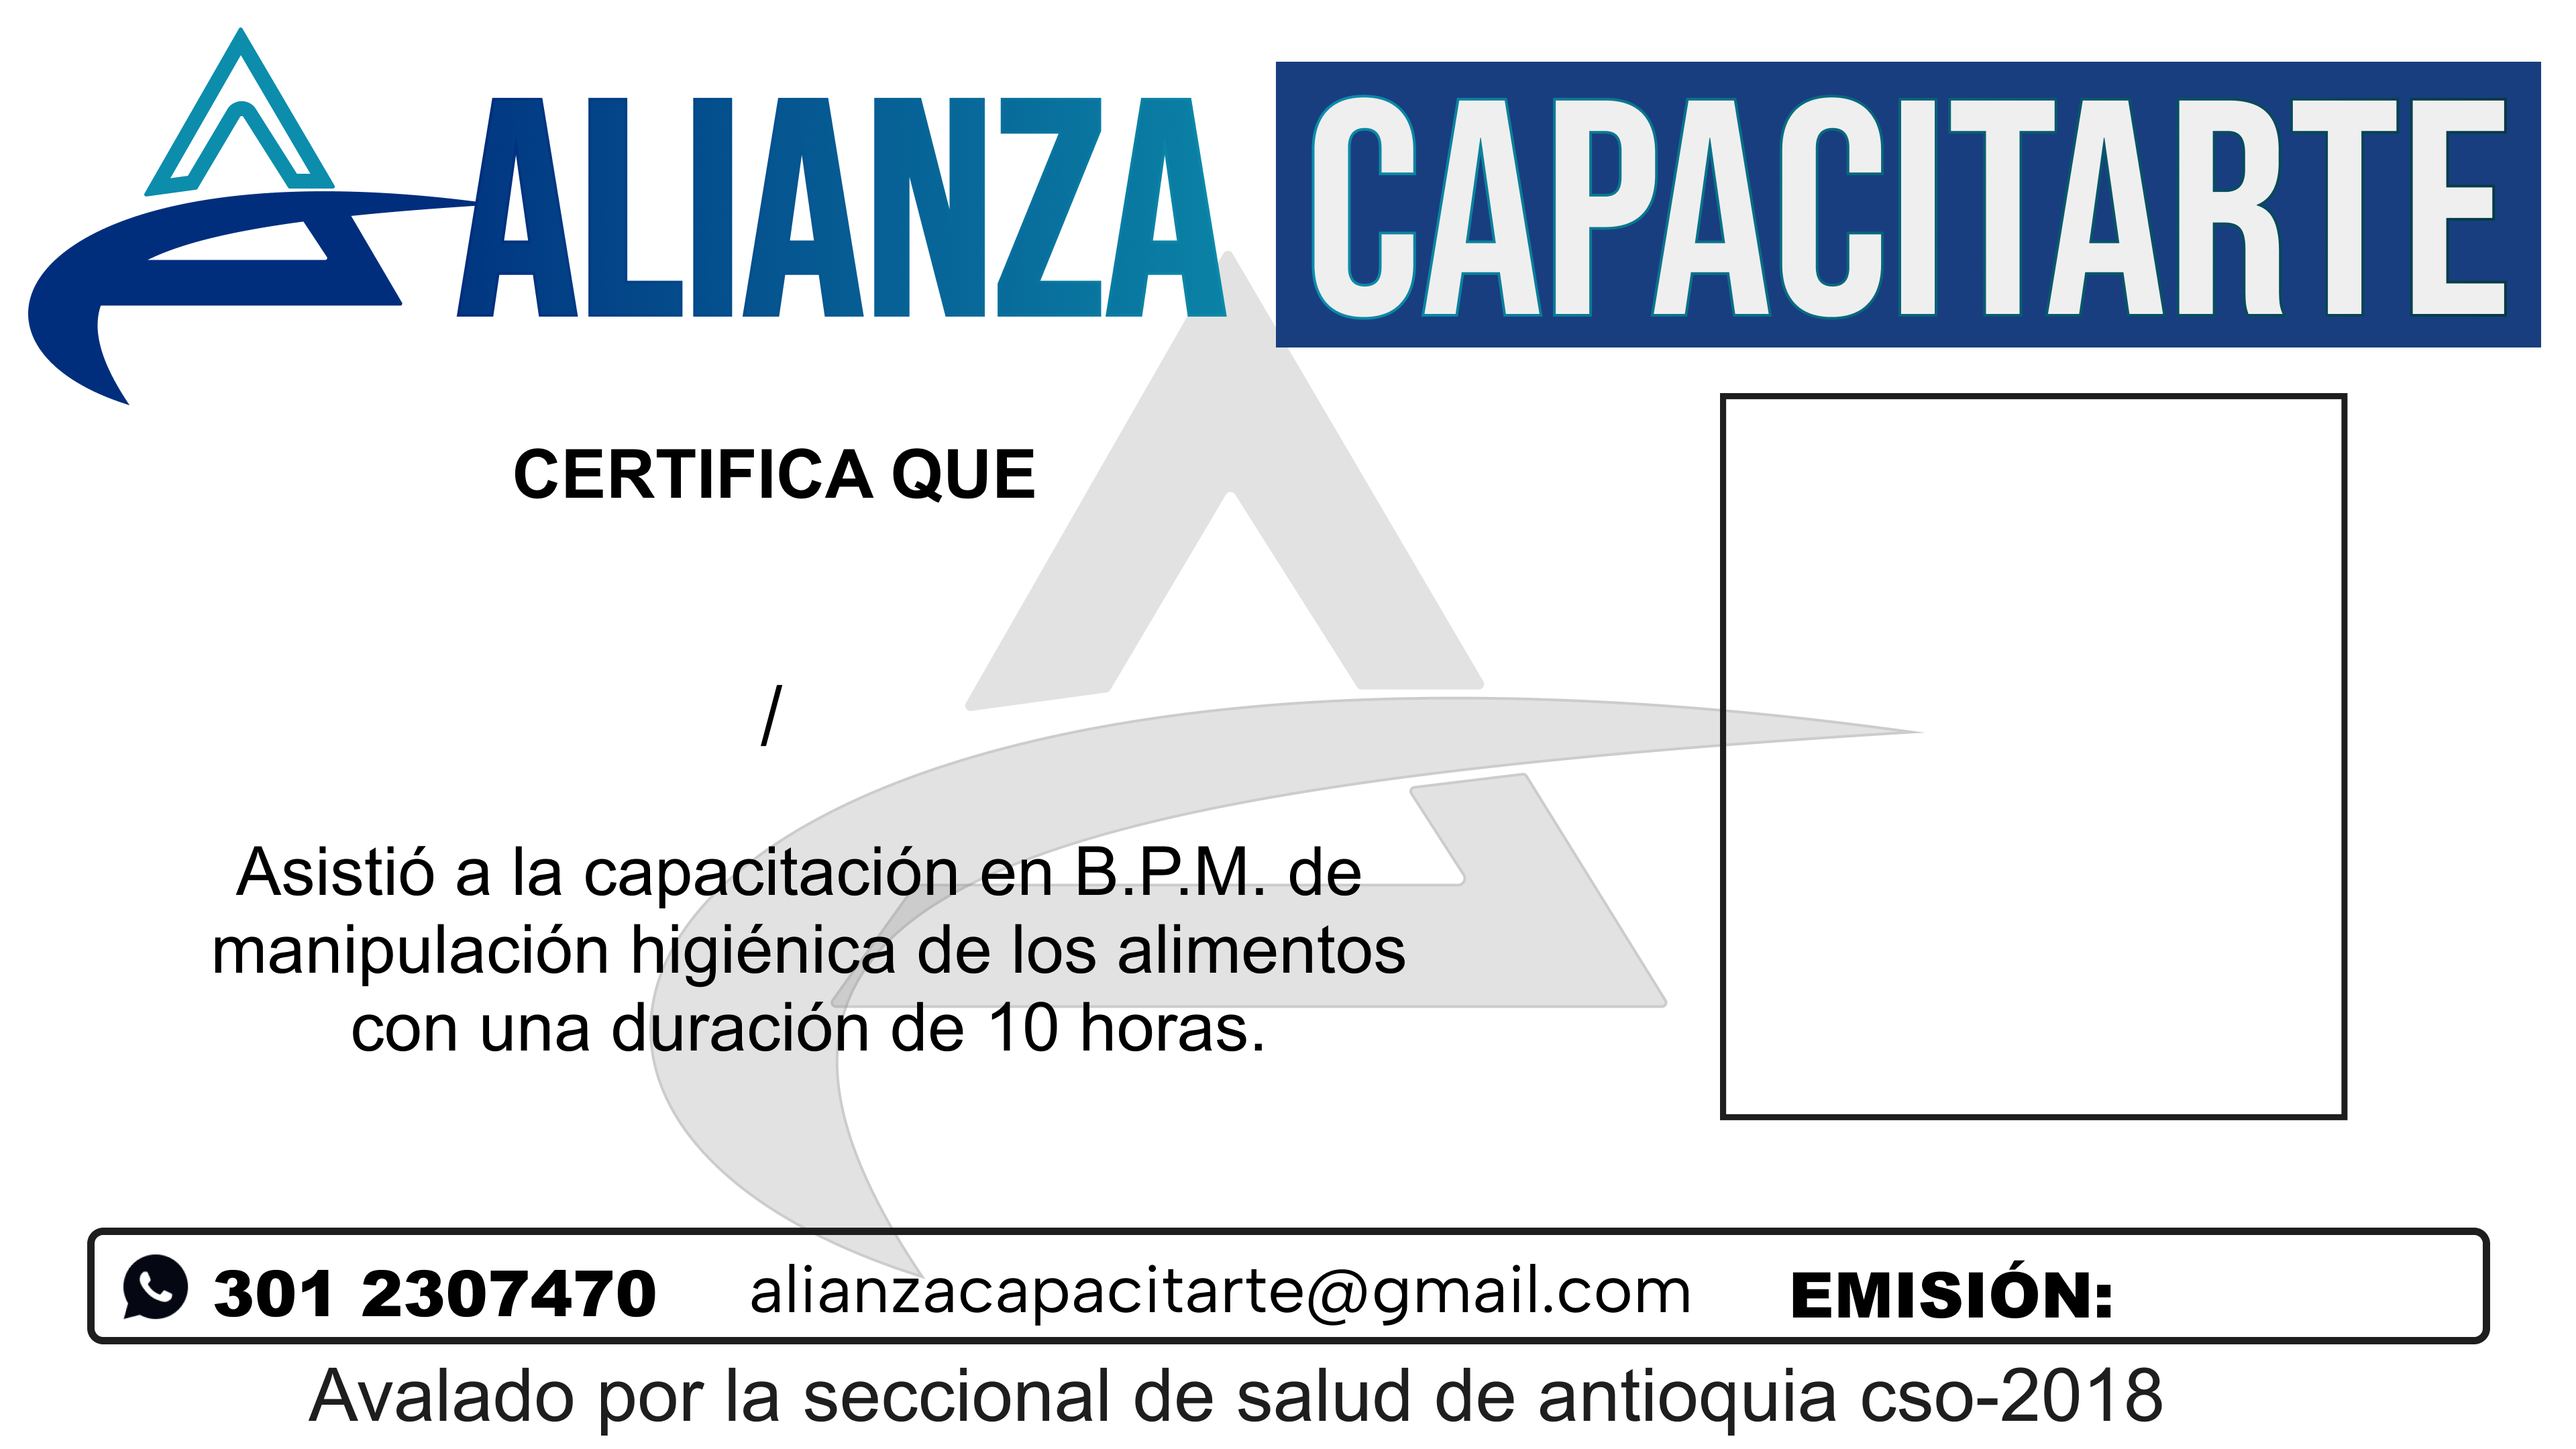
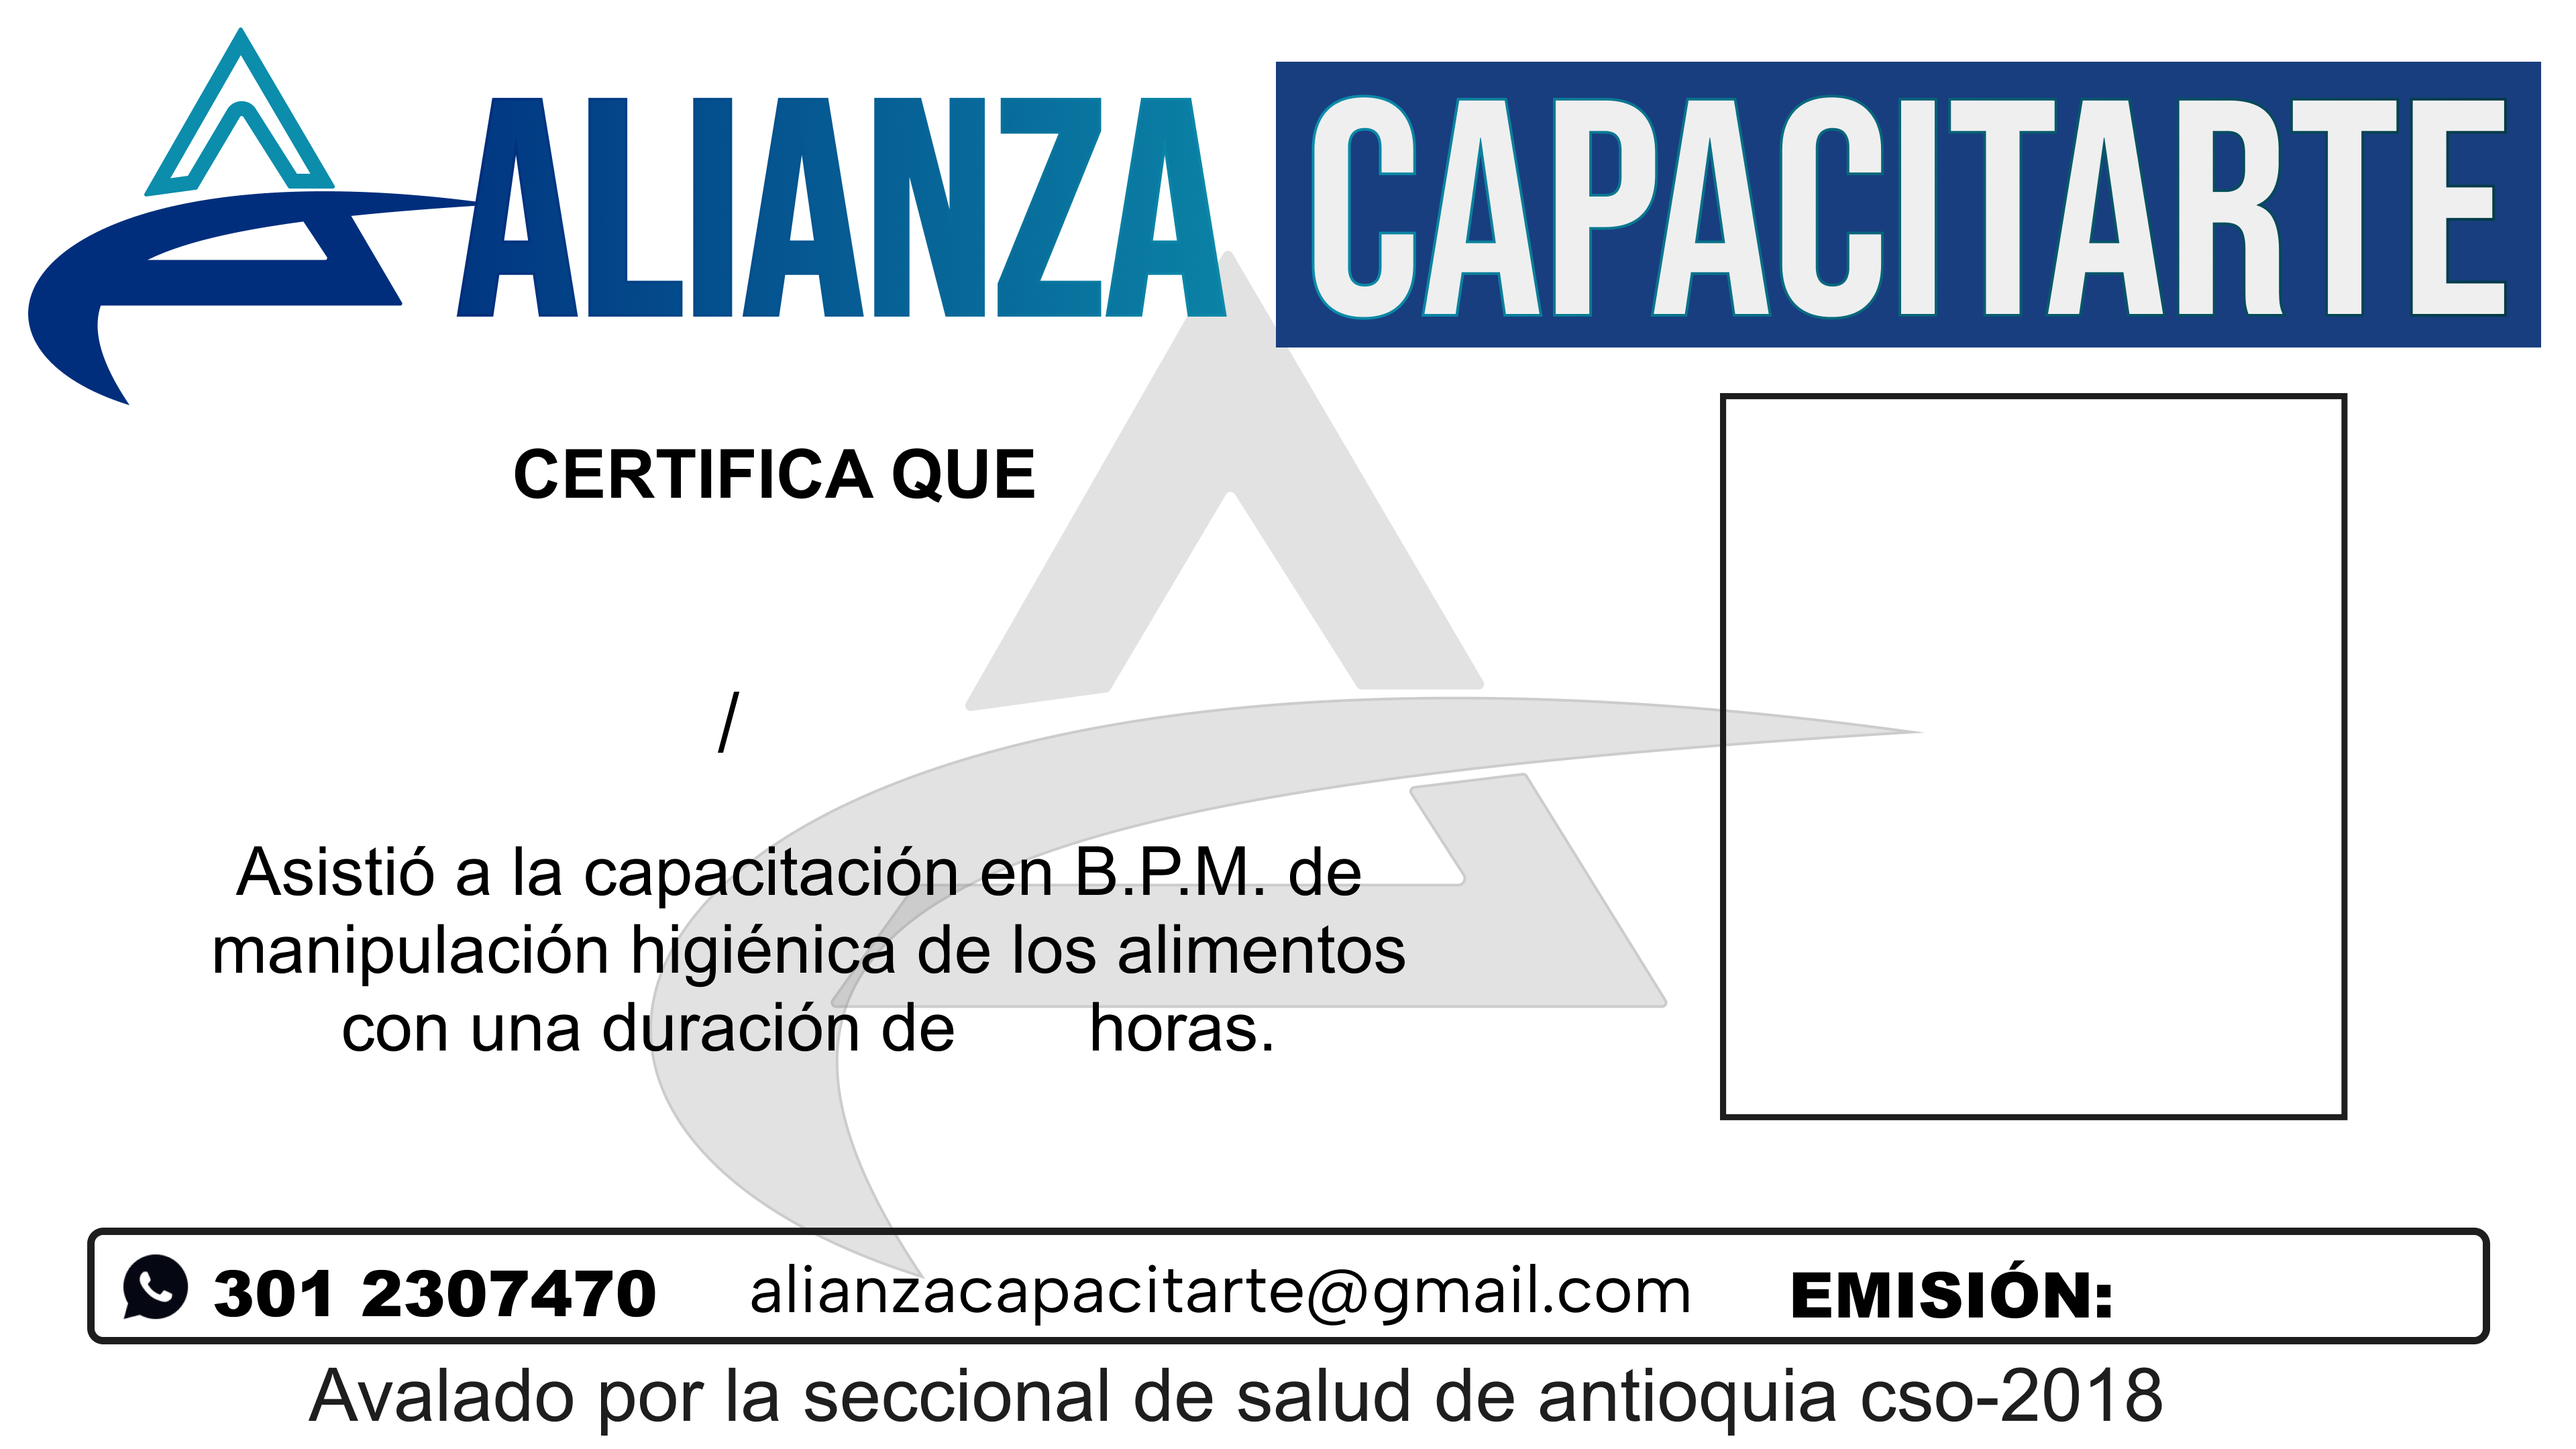
feat: Implement PDF generation for certificates and carnets, incorporating dynamic user data, background images, and QR codes.

Changed region(s): [[0.125, 0.6824, 0.5, 0.7444], [0.2812, 0.4653, 0.3125, 0.4963]]

diff --git a/src/controllers/certificadoController.js b/src/controllers/certificadoController.js
@@ -23,7 +23,7 @@ const __dirname = path.dirname(__filename);
 // Controlador para generar un CERTIFICADO
 // //////////////////////////////////////////////////////////////////////////////////
 const generarCertificadoController = async (req, res) => {
-    const { nombre, numeroDocumento, tipoDocumento } = req.body;
+    const { nombre, numeroDocumento, tipoDocumento, intensidadHoraria } = req.body;
 
     if (!nombre || !numeroDocumento || !tipoDocumento) {
         return res.status(400).json({ error: 'Nombre, número de documento y tipo de documento son requeridos.' });
@@ -74,6 +74,11 @@ const generarCertificadoController = async (req, res) => {
             width: doc.page.width,
         });
 
+        doc.fontSize(14).font('Helvetica').text(`${intensidadHoraria}`, 129, 328, {
+            align: 'center',
+            width: doc.page.width,
+        });
+
         doc.fontSize(14).text(fechaActual, -130, 618, {
             align: 'center',
             width: doc.page.width,
@@ -117,7 +122,7 @@ const generarCertificadoController = async (req, res) => {
 // Controlador para generar un CARNET
 // //////////////////////////////////////////////////////////////////////////////////
 const generarCarnetController = async (req, res) => {
-    const { nombre, numeroDocumento, tipoDocumento } = req.body;
+    const { nombre, numeroDocumento, tipoDocumento, intensidadHoraria } = req.body;
     const fotoFile = req.file;
 
     try {
@@ -158,6 +163,7 @@ const generarCarnetController = async (req, res) => {
         doc.fillColor('black');
         doc.fontSize(7).text(nombre, 8, 60, { width: 150, align: 'center' });
         doc.fontSize(7).text(tipoDocumento, 55, 73, { width: 150, align: 'left' });
+        doc.fontSize(7).text(intensidadHoraria, 92, 106, { width: 150, align: 'left' });
         doc.fontSize(7).text(numeroDocumento, 75, 73, { width: 150, align: 'left' });
 
         const fechaActual = new Date().toLocaleDateString('es-CO', { year: 'numeric', month: '2-digit', day: '2-digit' }).replace(/\//g, '/');
